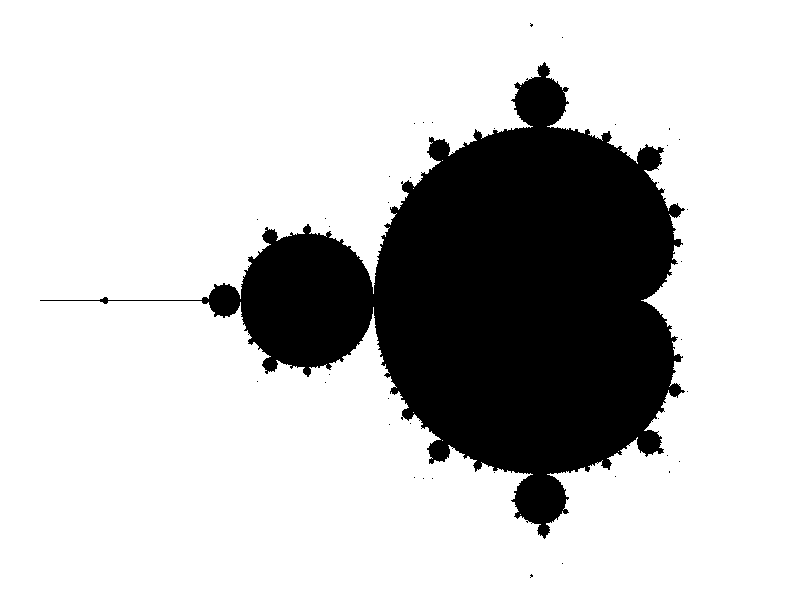
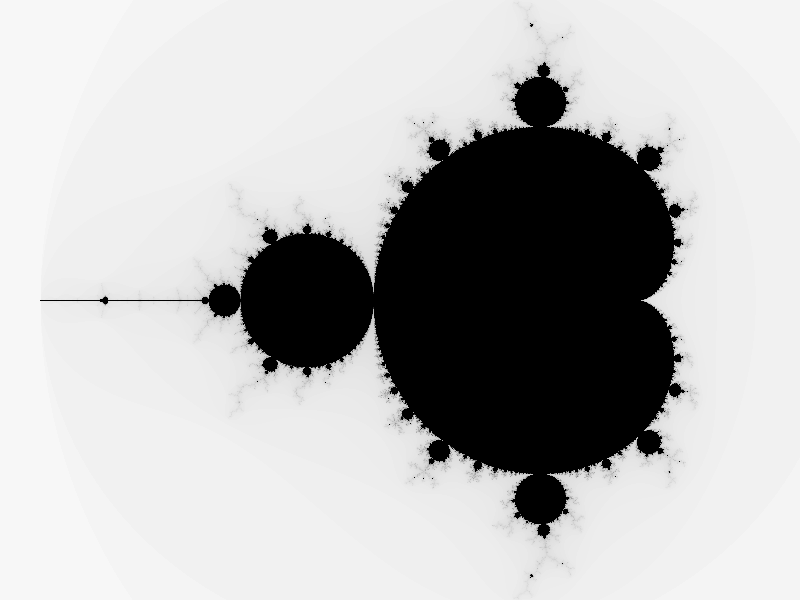
Add colour calculation (#5)

Changed region(s): [[0.0938, 0.0, 0.875, 0.99], [0.625, 0.99, 0.6562, 1.0]]

diff --git a/fract/mandelbrot_calculator.py b/fract/mandelbrot_calculator.py
@@ -1,7 +1,6 @@
 from __future__ import annotations
 
 from datetime import datetime
-from math import ceil
 from multiprocessing import Lock, Manager, Pool, Queue, current_process
 from os.path import join
 from pathlib import Path
@@ -13,8 +12,10 @@ from typing import Iterator, Type
 import png
 
 from fract.calculation_job import CalculationJob
+from fract.colors import to_greyscale
 from fract.export_job import ExportJob
 from fract.logging import logger
+from fract.to_color import ToColor
 
 
 class MandelbrotCalculator:
@@ -89,6 +90,20 @@ class MandelbrotCalculator:
         calculation_queue: "Queue[CalculationJob | None]",
         export_queue: "Queue[str | None]",
     ) -> None:
+        try:
+            self._start_calculation_worker_unsafe(
+                calculation_queue,
+                export_queue,
+            )
+        except Exception:
+            logger.exception("Calculation failed.")
+            raise
+
+    def _start_calculation_worker_unsafe(
+        self,
+        calculation_queue: "Queue[CalculationJob | None]",
+        export_queue: "Queue[str | None]",
+    ) -> None:
         name = current_process().name
         logger.debug("Calculation worker %s started", name)
 
@@ -104,29 +119,29 @@ class MandelbrotCalculator:
             logger.debug("Calculation worker %s now working on line %i", name, y)
 
             pixel_height = job["pixel_height"]
-            real_width = job["real_width"]
             main_real = job["min_real"]
-            imaginary_height = job["imaginary_height"]
             min_imaginary = job["min_imaginary"]
             max_iterations = job["max_iterations"]
             working_directory = job["working_directory"]
 
-            imaginary = min_imaginary + (y / pixel_height) * imaginary_height
+            imaginary = min_imaginary + (y / pixel_height) * job["imaginary_span"]
 
             pixel_width = job["pixel_width"]
 
             path = join(working_directory, str(y))
-            result_byte_length = ceil(max_iterations.bit_length() / 8.0)
 
             with open(path, "wb") as f:
                 for x in range(pixel_width):
-                    count = MandelbrotCalculator.count_iterations(
-                        main_real + (x / pixel_width) * real_width,
+                    color = MandelbrotCalculator.calculate_color(
+                        job["to_color"],
+                        main_real + (x / pixel_width) * job["real_span"],
                         imaginary,
                         max_iterations,
                     )
 
-                    f.write(count.to_bytes(result_byte_length))
+                    f.write(color[0].to_bytes(16))
+                    f.write(color[1].to_bytes(16))
+                    f.write(color[2].to_bytes(16))
 
             with self._remaining_lock:
                 remaining_count = self._remaining[working_directory] - 1
@@ -139,6 +154,13 @@ class MandelbrotCalculator:
                 export_queue.put(working_directory)
 
     def _start_export_worker(self, queue: "Queue[str | None]") -> None:
+        try:
+            self._start_export_worker_unsafe(queue)
+        except Exception:
+            logger.exception("Export failed.")
+            raise
+
+    def _start_export_worker_unsafe(self, queue: "Queue[str | None]") -> None:
         name = current_process().name
         logger.debug("Export worker %s started", name)
 
@@ -162,40 +184,42 @@ class MandelbrotCalculator:
             path = job["path"]
             width = job["width"]
             height = job["height"]
-            max_iterations = job["max_iterations"]
 
             with open(path, "wb") as f:
                 writer = png.Writer(
                     width,
                     height,
+                    bitdepth=16,
                     greyscale=False,
                 )
 
                 rows = MandelbrotCalculator.iterations_to_color_rows(
                     height,
-                    max_iterations,
                     working_directory,
                 )
 
                 writer.write(f, rows)
 
+            logger.info("Exported %s.", path)
+
             rmtree(working_directory)
 
     @staticmethod
-    def count_iterations(
+    def calculate_color(
+        to_color: ToColor,
         real: float,
         imaginary: float,
         maximum: int,
-    ) -> int:
+    ) -> tuple[int, int, int]:
         """
         Counts the number of iterations required for the point (`real`,
         `imaginary`) to escape the Mandelbrot set, to a `maximum` iteration.
         """
 
-        if MandelbrotCalculator.estimate_in_mandelbrot_set(real, imaginary):
-            return maximum
-
         count = 0
+
+        if MandelbrotCalculator.estimate_in_mandelbrot_set(real, imaginary):
+            count = maximum
 
         x = 0.0
         y = 0.0
@@ -212,11 +236,12 @@ class MandelbrotCalculator:
             y = ((2 * x) * y) + imaginary
             x = (x_squared - y_squared) + real
 
+            if x == x_cycle and y == y_cycle:
+                count = maximum
+                break
+
             x_squared = x * x
             y_squared = y * y
-
-            if x == x_cycle and y == y_cycle:
-                return maximum
 
             period += 1
 
@@ -227,39 +252,40 @@ class MandelbrotCalculator:
 
             count += 1
 
-        return count
+        return to_color(count, maximum)
 
     def enqueue(
         self,
         width: int,
         height: int,
         path: Path | str,
+        to_color: ToColor | None = None,
         real: float = -0.65,
         imaginary: float = 0.0,
-        real_width: float = 3.0,
+        real_span: float = 3.0,
         max_iterations: int = 1_000,
     ) -> None:
         working_directory = mkdtemp(dir=self._pool_working_directory)
 
         self._exports[working_directory] = ExportJob(
             height=height,
-            max_iterations=max_iterations,
             path=path.as_posix() if isinstance(path, Path) else path,
             width=width,
         )
 
         self._remaining[working_directory] = height
-        imaginary_height = real_width * (height / width)
+        imaginary_span = real_span * (height / width)
 
         for y in range(height):
             job = CalculationJob(
-                imaginary_height=imaginary_height,
-                min_imaginary=imaginary - (imaginary_height / 2),
-                min_real=real - (real_width / 2),
+                imaginary_span=imaginary_span,
+                min_imaginary=imaginary - (imaginary_span / 2),
+                min_real=real - (real_span / 2),
                 max_iterations=max_iterations,
                 pixel_height=height,
                 pixel_width=width,
-                real_width=real_width,
+                real_span=real_span,
+                to_color=to_color or to_greyscale,
                 working_directory=working_directory,
                 y=y,
             )
@@ -300,11 +326,9 @@ class MandelbrotCalculator:
     @staticmethod
     def iterations_to_color_rows(
         height: int,
-        max_iterations: int,
         working_directory: str,
     ) -> Iterator[list[int]]:
         colors: list[int] = []
-        result_byte_length = ceil(max_iterations.bit_length() / 8.0)
 
         for y in range(height):
             if y > 0:
@@ -314,12 +338,11 @@ class MandelbrotCalculator:
             path = join(working_directory, str(y))
 
             with open(path, "rb") as f:
-                while read_bytes := f.read(result_byte_length):
-                    iteration_count = int.from_bytes(read_bytes)
+                while r_bytes := f.read(16):
+                    r = int.from_bytes(r_bytes)
+                    g = int.from_bytes(f.read(16))
+                    b = int.from_bytes(f.read(16))
 
-                    if iteration_count < max_iterations:
-                        colors.extend([255, 255, 255])
-                    else:
-                        colors.extend([0, 0, 0])
+                    colors.extend([r, g, b])
 
         yield colors

diff --git a/tests/test_mandelbrot.py b/tests/test_mandelbrot.py
@@ -19,13 +19,6 @@ def test_mandelbrot_calculator() -> None:
         calculator.enqueue(
             width,
             height,
-            docs / "bottom.png",
-            imaginary=1.4,
-        )
-
-        calculator.enqueue(
-            width,
-            height,
             docs / "down.png",
             imaginary=1,
         )
@@ -33,13 +26,24 @@ def test_mandelbrot_calculator() -> None:
         calculator.enqueue(
             width,
             height,
-            docs / "top.png",
-            imaginary=-1.4,
+            docs / "up.png",
+            imaginary=-1,
         )
 
         calculator.enqueue(
             width,
             height,
-            docs / "up.png",
-            imaginary=-1,
+            docs / "spike.png",
+            real=-7.512161027228863343638453051344657940828e-01,
+            imaginary=7.564322879586228138815367330951882912101e-02,
+            real_span=2.525954765394997575123068990514486572846e-02,
+        )
+
+        calculator.enqueue(
+            width,
+            height,
+            docs / "blob.png",
+            real=-7.477206299701217857868874599694192861252e-01,
+            imaginary=7.647562179933755900697580511712126156030e-02,
+            real_span=4.789022958086932357423846003655134377124e-03,
         )

diff --git a/fract/calculation_job.py b/fract/calculation_job.py
@@ -1,13 +1,16 @@
 from typing import TypedDict
 
+from fract.to_color import ToColor
+
 
 class CalculationJob(TypedDict):
-    imaginary_height: float
+    imaginary_span: float
     min_imaginary: float
     min_real: float
     max_iterations: int
     pixel_height: int
     pixel_width: int
-    real_width: float
+    real_span: float
+    to_color: ToColor
     working_directory: str
     y: int

diff --git a/tests/conftest.py b/tests/conftest.py
@@ -1,7 +1,5 @@
-# from logging import DEBUG
+from logging import INFO
 
-# from fract.logging import logger
+from fract.logging import logger
 
-# NOTE: Fract logs a *lot* a DEBUG, and it severely slows rendering. Enable
-# NOTE: debug logging during testing only when it's useful.
-# logger.setLevel(DEBUG)
+logger.setLevel(INFO)

diff --git a/fract/colors.py b/fract/colors.py
@@ -1,0 +1,7 @@
+from math import ceil, sqrt
+
+
+def to_greyscale(count: int, maximum: int) -> tuple[int, int, int]:
+    max_color = 65_535
+    r = ceil(max_color + sqrt(count / maximum) * (-max_color))
+    return (r, r, r)

diff --git a/fract/__init__.py b/fract/__init__.py
@@ -1,7 +1,9 @@
 from fract.mandelbrot import mandelbrot_calculator
+from fract.to_color import ToColor
 from fract.version_func import version
 
 __all__ = [
+    "ToColor",
     "mandelbrot_calculator",
     "version",
 ]

diff --git a/fract/export_job.py b/fract/export_job.py
@@ -3,6 +3,5 @@ from typing import TypedDict
 
 class ExportJob(TypedDict):
     height: int
-    max_iterations: int
     path: str
     width: int

diff --git a/fract/to_color.py b/fract/to_color.py
@@ -1,0 +1,3 @@
+from typing import Callable
+
+ToColor = Callable[[int, int], tuple[int, int, int]]
